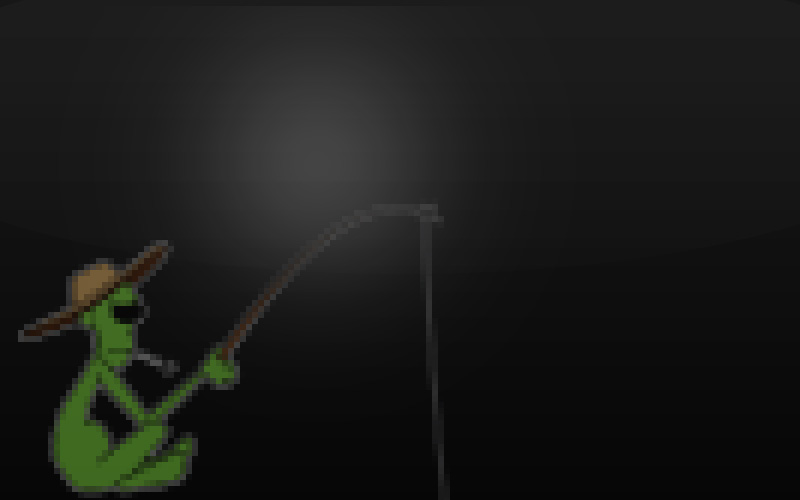
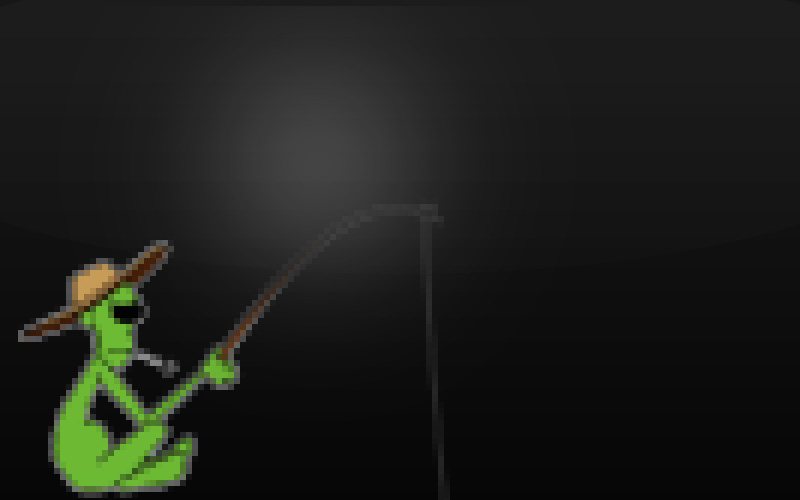
- refine panel backgrounds

Changed region(s): [[0.0, 0.48, 0.3438, 0.99]]

diff --git a/js/script.js b/js/script.js
@@ -323,6 +323,7 @@ function PageInit(){
 		{id:"intro_page_3", src:"assets/intro_pg_3.png"},
 		{id:"intro_page_4", src:"assets/intro_pg_4.png"},
 		{id:"panel_bkg", src:"assets/panel_bkg.jpg"},
+		{id:"panel_bkg_blank", src:"assets/panel_bkg_blank.jpg"},
 	];
 
 	preload = new createjs.PreloadJS();

diff --git a/css/style.css b/css/style.css
@@ -326,7 +326,7 @@ li{
 }
 
 #loading, #intro{
-	background-image:none;
+	background-image:url('../assets/panel_bkg_blank.jpg');
 }
 
 #intro ul{
